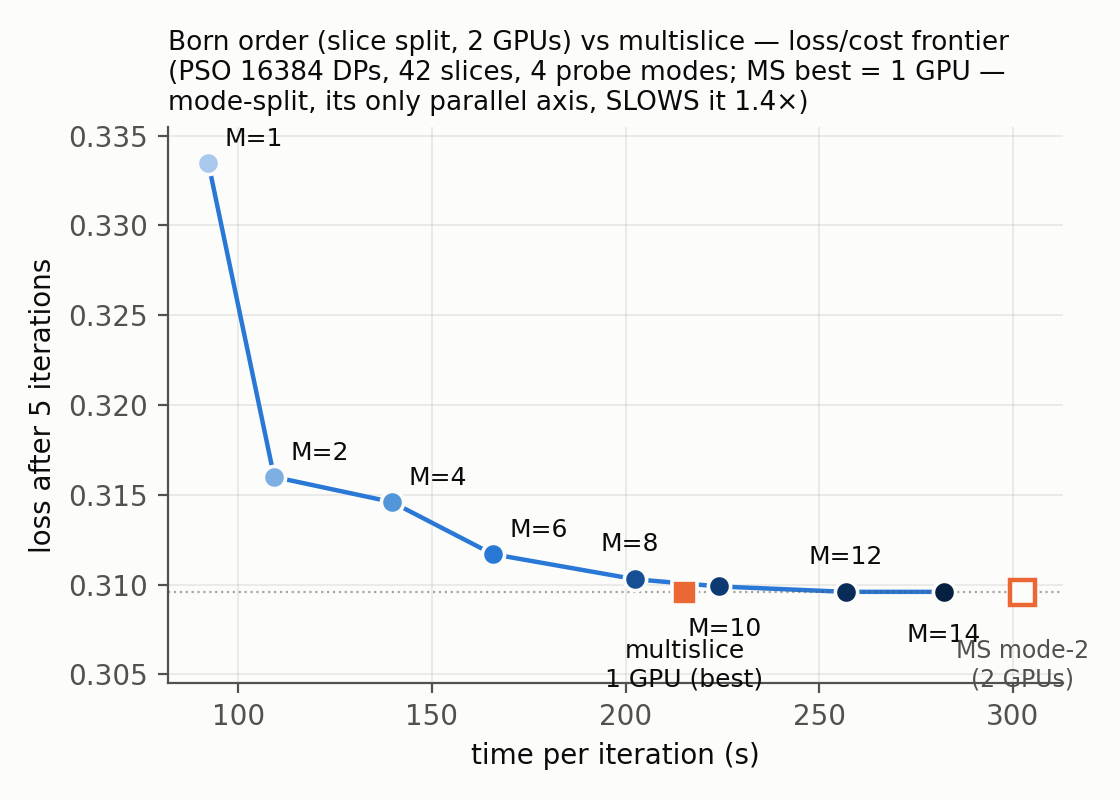
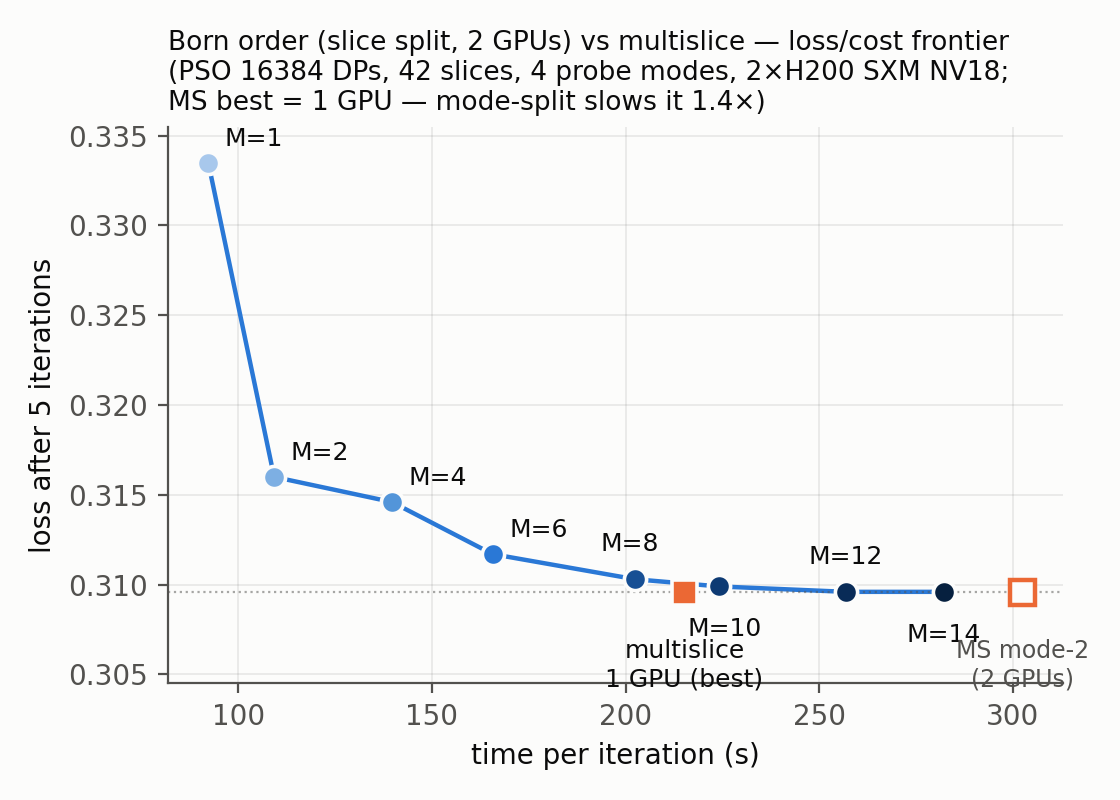
Pareto titles: add 2xH200 SXM NV18; ms2only variant drops the parallel-axis and 1-GPU-MS clauses

Changed region(s): [[0.1562, 0.0625, 0.9062, 0.1562]]

diff --git a/demo/nvlink/redo/make_figs_h200.py b/demo/nvlink/redo/make_figs_h200.py
@@ -103,14 +103,14 @@ def pareto(name, show_ms1, show_ms2, subtitle):
     save(fig, name)
 
 pareto("fig_h200_pareto", True, True,
-       "(PSO 16384 DPs, 42 slices, 4 probe modes; MS best = 1 GPU —\n"
-       "mode-split, its only parallel axis, SLOWS it 1.4×)")
+       "(PSO 16384 DPs, 42 slices, 4 probe modes, 2×H200 SXM NV18;\n"
+       "MS best = 1 GPU — mode-split slows it 1.4×)")
 pareto("fig_h200_pareto_ms1gpu", True, False,
-       "(PSO 16384 DPs, 42 slices, 4 probe modes; multislice shown at its\n"
-       "best: 1 GPU — its probe-mode split slows it 1.4×, see text)")
+       "(PSO 16384 DPs, 42 slices, 4 probe modes, 2×H200 SXM NV18;\n"
+       "multislice shown at its best: 1 GPU)")
 pareto("fig_h200_pareto_ms2only", False, True,
-       "(PSO 16384 DPs, 42 slices, 4 probe modes; multislice mode-split\n"
-       "over 2 GPUs — its only parallel axis; 1-GPU MS runs 215 s/iter)")
+       "(PSO 16384 DPs, 42 slices, 4 probe modes, 2×H200 SXM NV18;\n"
+       "multislice mode-split over 2 GPUs)")
 
 # ---- B. s/iter vs M, split-axis comparison ---------------------------------
 fig, ax = plt.subplots(figsize=(5.6, 3.8))
